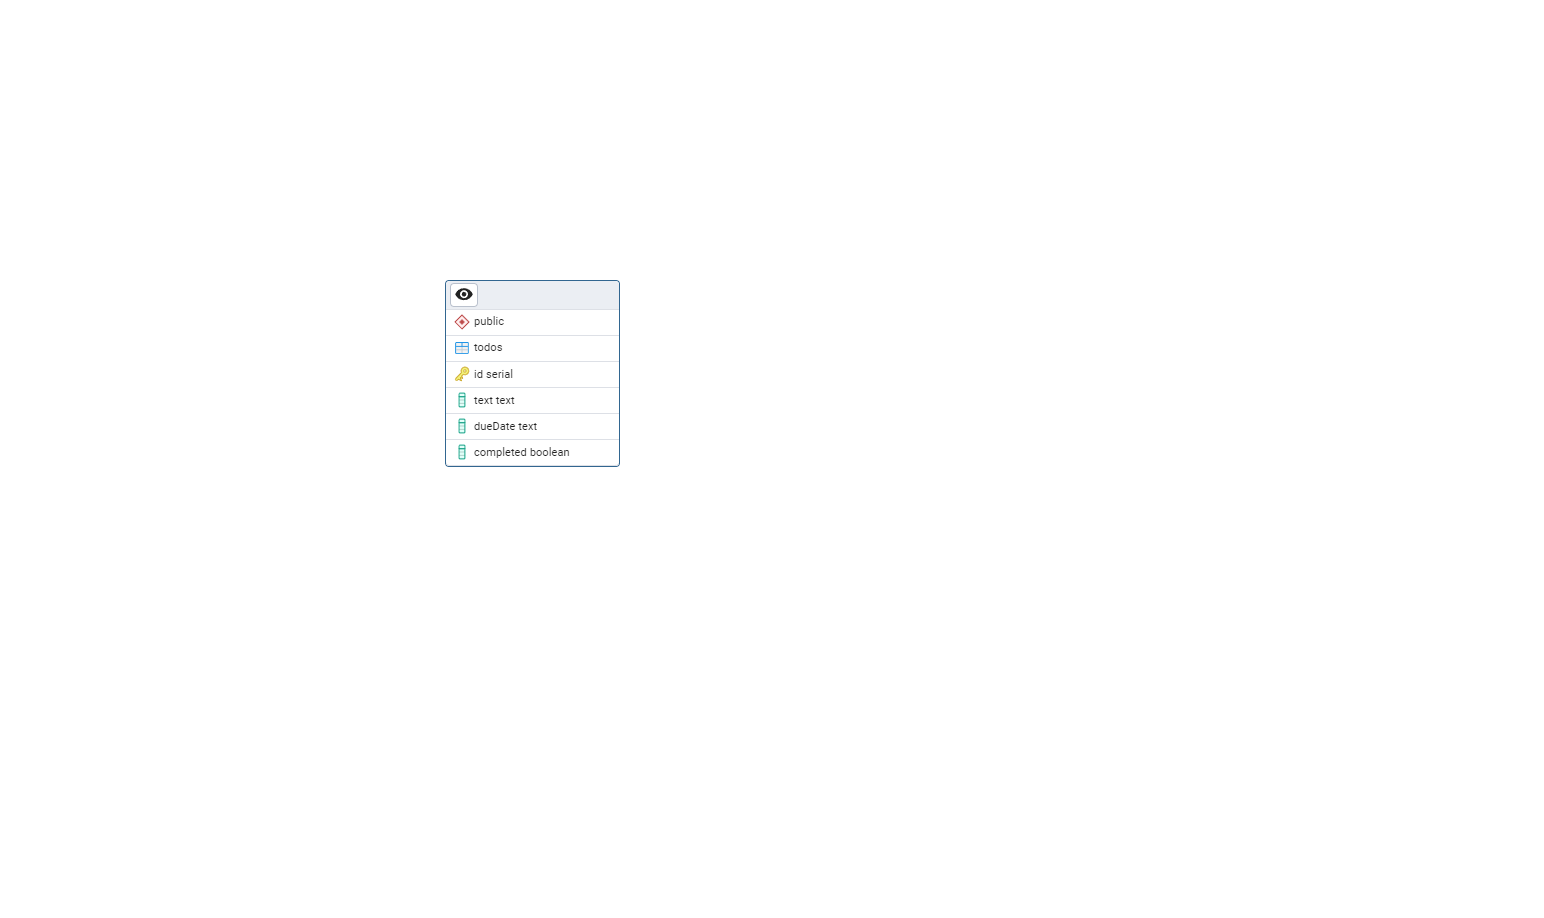
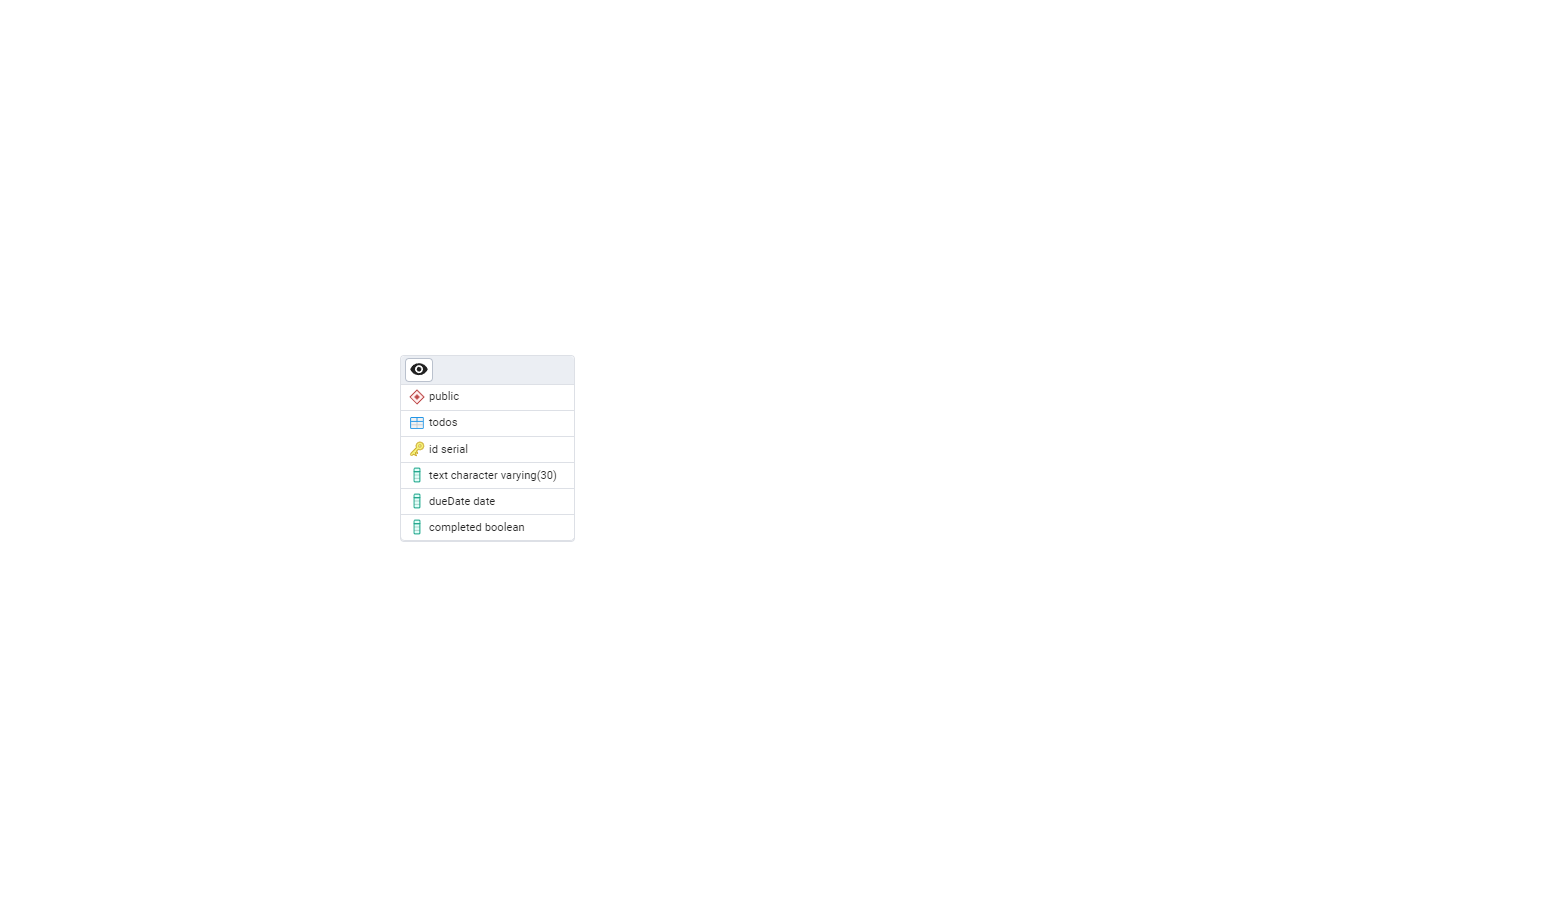
db add protection field types, fix db init

Changed region(s): [[0.2487, 0.305, 0.3731, 0.5795]]

diff --git a/backend/py/db/db_utils.py b/backend/py/db/db_utils.py
@@ -3,14 +3,16 @@ from psycopg.rows import dict_row
 from db_config import DB_CONFIG
 
 def db_ensure_table(conn):
-    conn.execute("""
-        CREATE TABLE IF NOT EXISTS todos (
-            id SERIAL PRIMARY KEY,
-            text TEXT,
-            "dueDate" TEXT,
-            completed BOOLEAN DEFAULT FALSE
-        )
-    """)
+    with conn.cursor() as cur:
+        cur.execute("""
+            CREATE TABLE IF NOT EXISTS todos (
+                id SERIAL PRIMARY KEY,
+                text VARCHAR(30) NOT NULL,
+                "dueDate" DATE NOT NULL,
+                completed BOOLEAN DEFAULT FALSE
+            )
+        """)
+    conn.commit()
 
 def db_get_connection():
     return psycopg.connect(**DB_CONFIG, row_factory=dict_row)

diff --git a/backend/py/app/todo_controller.py b/backend/py/app/todo_controller.py
@@ -7,6 +7,7 @@ class TodoController:
         self.register_routes()
         self.allowed_fields = ['id', 'text', 'dueDate', 'completed']
         self.todo_model = todo_model
+        self.todo_model.ensure_table(conn)
 
     def prepare_data(self, data):
         filtered = {key: data[key] for key in data if key in self.allowed_fields}
